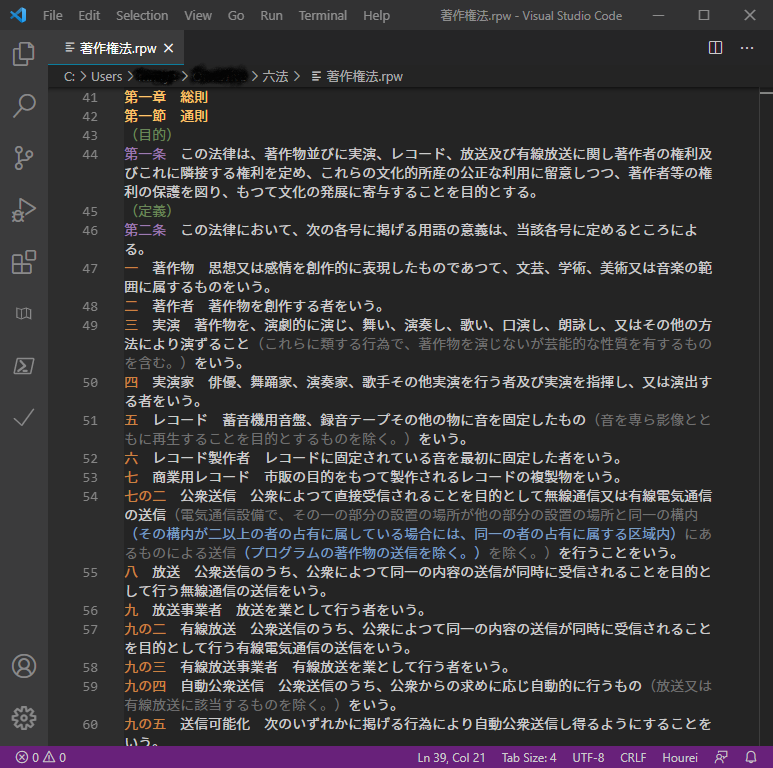
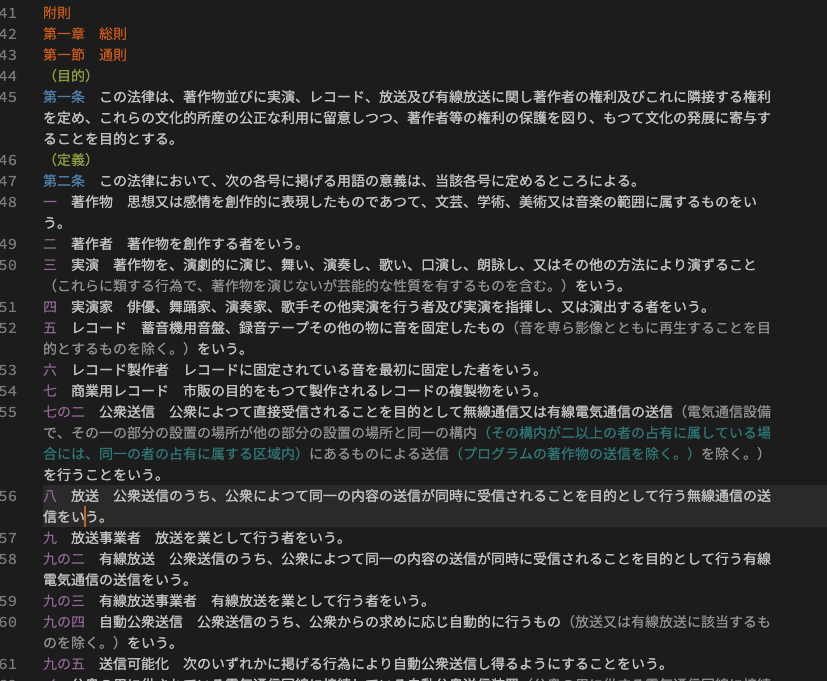
240810

diff --git a/README.md b/README.md
@@ -9,9 +9,9 @@
 ![example1](imgs/img1.png)
 
 - 留意点
-  - 上のスクリーンショット画像は[Darcula Theme
-](https://marketplace.visualstudio.com/items?itemName=rokoroku.vscode-theme-darcula)というテーマを適用した場合のものです。テーマが変わると、ハイライト表示の配色も変わります。
-  - 括弧書き部分のハイライトについては、下の画像の通り、括弧が3重にネストしているケースまで対応しているはずですが、うまくハイライトできないこともあるかもしれません（完璧にやろうとすると私のスキルでは動作が重くなってしまうのでやめた）。2重・3重の括弧書き部分については1重の場合と色を変えていますが、これも完璧ではありません。
+  - 上のスクリーンショット画像は"Monokai Dimmed"というテーマを適用した場合のものです。テーマが変わると、ハイライト表示の配色も変わります。
+  - 括弧書き部分のハイライトについては、下の画像の通り、括弧がネストしているケースに対応しており、２重目の括弧については色を変えています。ただし、他の規定を引用したり改めたりしている箇所では括弧の対応関係をうまく判定できないケースがあります。
+  - カギカッコに括られている内側も強調表示するようにしていますが、他の規定を引用したり改めたりしている箇所では括弧の対応関係をうまく判定できないケースがあります。
 
 ![example2](imgs/img2.png)
 

diff --git a/CHANGELOG.md b/CHANGELOG.md
@@ -31,3 +31,9 @@
 ## 1.0.6
 
 - READMEの誤記を修正
+
+## 2.0.0
+
+- ネストした括弧の判定方法を変更
+- カギカッコの強調表示の追加（主にカギカッコ内でカギ括弧や括弧の対応関係がおかしくなる問題の対応のため）
+- 括弧やカギカッコの対応の判定がうまくいかない場合には、おかしな強調表示が改行をまたいで続かないようにした
